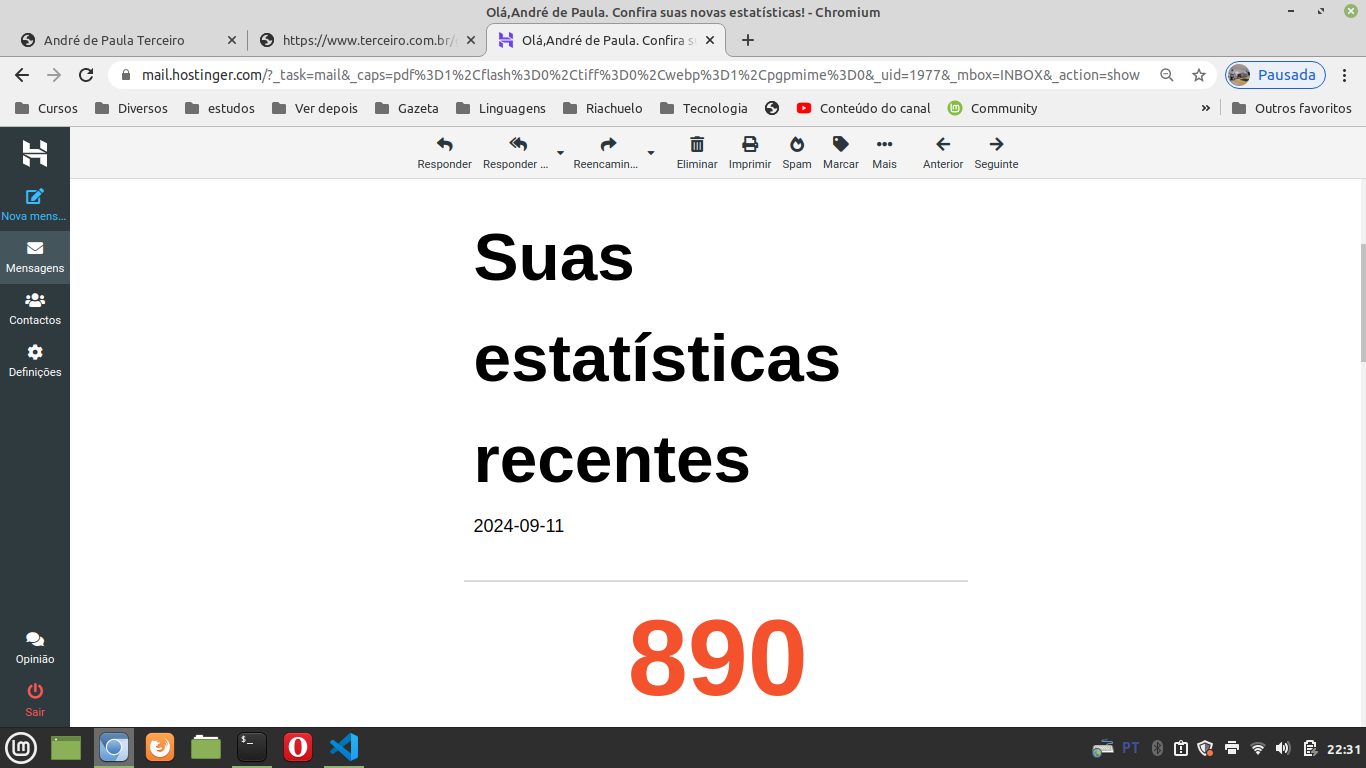
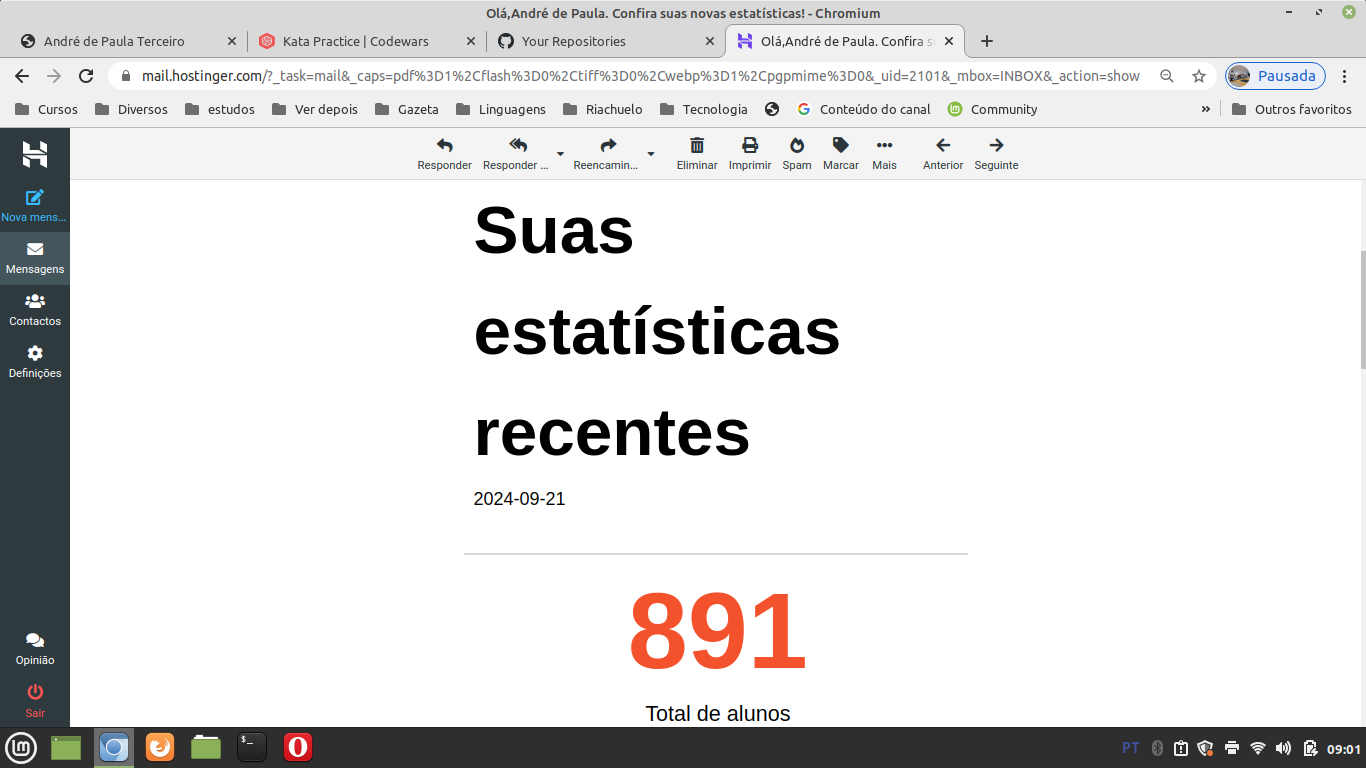
Updating the number of students in my Udemy course

diff --git a/git.html b/git.html
@@ -6,7 +6,7 @@
         <div>
             Eu ministro um curso gratuito de Git na Udemy. O link <a href="https://www.udemy.com/course/basico-de-git/learn/lecture/30259040#overview" target="_blank">é este</a>. 
             <br /><br />
-            <a href="numero-alunos-curso-udemy.png" target="_blank" />Tenho 890 alunos lá</a><br />
+            <a href="numero-alunos-curso-udemy.png" target="_blank" />Tenho 891 alunos lá</a><br />
             <br /><br />
             No LinkedIN eu passei no teste de Git :)<br />
             <img src="aprovacao-teste-git-linkedin.jpg" />
